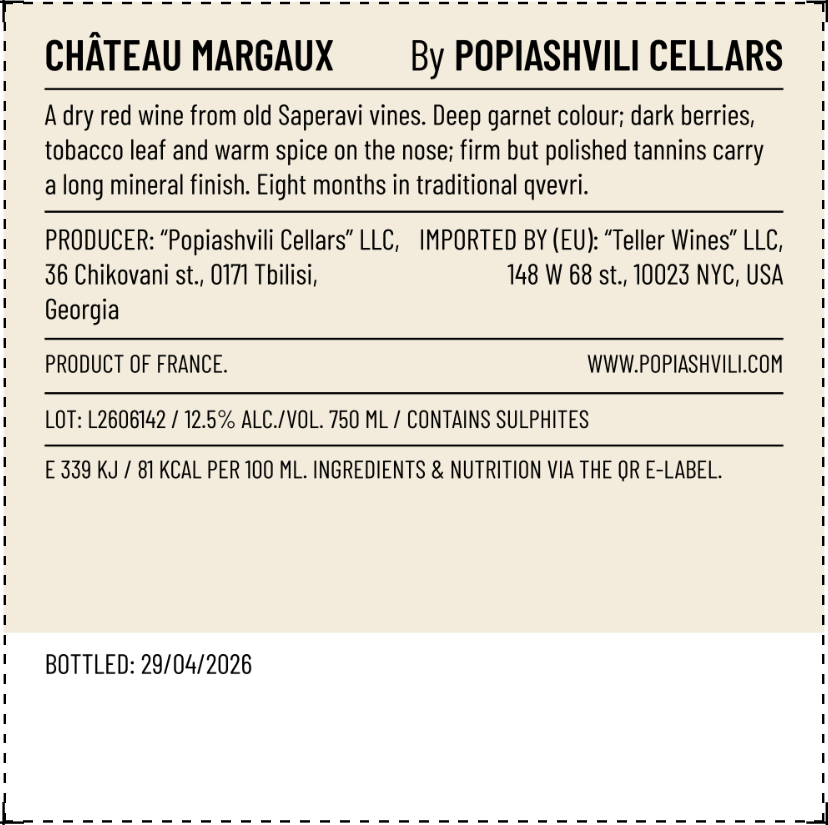
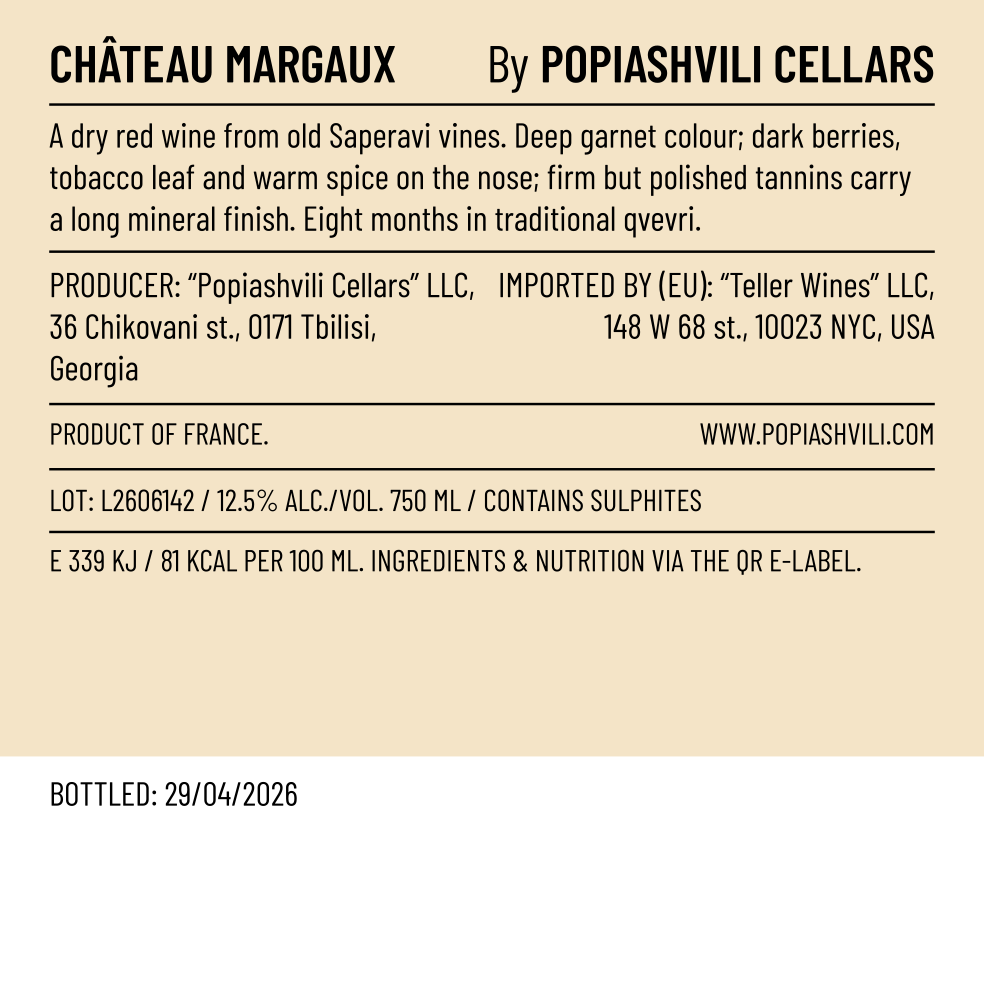
Round 73: the walkthrough makes a variation, presets the bottle, and invites the next press
- step 2 presses Variation, waits out its loader and flicks the dots
  between the two designs before choosing one
- the bottle step opens preset and changes type, colour, closure, then
  picks a wheel colour and darkens it
- the arrow inflates twice when a step finishes
- the pointer climbs to the details and clicks before typing them
- the back label demo image had the dashed overlay baked in; re-grabbed
- step 5 and 6 cards cut to three lines; the closing card is full size
  and carries no Skip

diff --git a/src/app/page.tsx b/src/app/page.tsx
@@ -241,8 +241,9 @@ const TUT_CARDS: { step: string; title: string[]; body: string[] }[] = [
   { step: "STEP 2", title: ["Front Label"], body: ["Voilà — three designs to", "choose from.", "Pick your favourite."] },
   { step: "STEP 3", title: ["Back Label Details,", "Barcode & QR Code"], body: ["A few more details, and I'll", "build a back label that meets", "your market's rules."] },
   { step: "STEP 4", title: ["Back Label"], body: ["Done. Print-ready, and", "compliant with the markets", "you chose."] },
-  { step: "STEP 5", title: ["Bottle Details"], body: ["Tell me about the bottle and", "the closure, so I can", "photograph your wine exactly", "as it will look on the shelf."] },
-  { step: "STEP 6", title: ["Marketing Assets"], body: ["Two product shots, five", "marketing images, and your", "product page if you asked", "for one."] },
+  /* round 73 #5: three lines each — a fourth line crowded the card's foot */
+  { step: "STEP 5", title: ["Bottle Details"], body: ["Tell me about the bottle and", "the closure — I'll shoot it", "as it will look on the shelf."] },
+  { step: "STEP 6", title: ["Marketing Assets"], body: ["Two product shots, five", "marketing images, and your", "product page if you asked."] },
   { step: "", title: ["Let's build", "your pack!"], body: [] },
 ];
 const DEMO_VISION = "An old winemaker resting under a fig tree with his mandolin, a rooster at his feet — warm, rustic, Georgian.";
@@ -252,7 +253,11 @@ const DEMO_BACK: Record<string, string> = {
   importer: '"Teller Wines" LLC', importerAddress: "148 W 68 st. 10023 NYC, USA",
   bottlingDate: "28/04/2026", lot: "L2606242", web: "www.popiashvili.com",
 };
-const DEMO_BOTTLE = { type: "Bordeaux", color: "Olive Green", closure: "Cork", finish: "Matte" };
+/* round 73 #4: where the bottle step ENDS (it starts on Bordeaux / Amber /
+   Wax Seal and is changed on camera) */
+const DEMO_BOTTLE = { type: "Burgundy", color: "Olive Green", closure: "Cork", finish: "Matte" };
+const DEMO_BOTTLE_0 = { type: "Bordeaux", color: "Amber", closure: "Wax Seal", finish: "Matte" };
+const DEMO_WHEEL = { x: 0.44, y: 0.1, rgb: [250, 27, 31] };   /* a capsule red */
 /* round 72 #8: the ghost taps — a red ring blooms where a hand would be */
 const TAP = {
   visionBox: [250, 400], width: [476, 645], height: [650, 645],
@@ -260,6 +265,9 @@ const TAP = {
   optSelect: [692.5, 634],
   descBox: [250, 265], barcode: [360, 468], qrBtn: [874.5, 467],
   market: [873.5, 670], eu: [873, 330],
+  backFirst: [1050, 212],            /* round 73 #1: up to the details */
+  varBtn: [720.15, 582], dot0: [708.95, 516.85], dot1: [730.95, 516.85],
+  wheel: [1137.89 + 0.44 * 137.2, 368 + 0.1 * 137.2],
   bottleRings: [[386.06, 283.57], [577.98, 283.57], [769.9, 283.57], [961.82, 283.57], [1153.74, 283.57]],
 } as const;
 /* the bottle page's option rows and the lightness knob, from its own code:
@@ -646,6 +654,9 @@ const sleep = (ms: number) => new Promise((r) => setTimeout(r, ms));
   const [cursor, setCursor] = useState<{ x: number; y: number; ms: number } | null>(null);
   /* round 72 #14: the product page publishes AFTER the images are in */
   const [tutLanding, setTutLanding] = useState(false);
+  /* round 73 #2: when a step's script ends the arrow inflates twice, so
+     they know the turn is theirs */
+  const [nudge, setNudge] = useState(0);
 
   const [packSel, setPackSel] = useState<boolean[]>([true, true, true, false]);
   const [agree, setAgree] = useState(false);
@@ -1073,6 +1084,17 @@ const sleep = (ms: number) => new Promise((r) => setTimeout(r, ms));
       setRipple({ x: at[0], y: at[1], n: ++rippleN.current });
       return beat(after);
     };
+    /* round 73 #4: a pick on the colour wheel, sampled the same way the
+       real pointer handler samples it */
+    const pickWheel = (fx: number, fy: number) => {
+      let rgb = DEMO_WHEEL.rgb as number[];
+      const c = wheelCanvas.current;
+      if (c) {
+        const d = c.getContext("2d")!.getImageData(Math.round(fx * 136), Math.round(fy * 136), 1, 1).data;
+        if (d[3] > 40) rgb = [d[0], d[1], d[2]];
+      }
+      setWheel({ x: fx, y: fy, rgb });
+    };
     /* a slow drag along the lightness bar */
     const dragShade = async (from: number, to: number) => {
       if (!(await move([SHADE_X(from), 532.5], 560))) return false;
@@ -1108,7 +1130,10 @@ const sleep = (ms: number) => new Promise((r) => setTimeout(r, ms));
         pr.onload = () => { setBackDims({ w: pr.width, h: pr.height }); setBackPng(pr.src); };
         pr.src = TUT_D + "back-label.png";
       }
-      if (tut > 4) { bottleTouched.current = true; setBottle({ ...DEMO_BOTTLE }); setWineColor("Red"); }
+      if (tut > 4) {
+        bottleTouched.current = true; setBottle({ ...DEMO_BOTTLE }); setWineColor("Red");
+        setWheel({ ...DEMO_WHEEL }); setShade(0.79);
+      }
       if (tut > 5) {
         setLifeTarget(5); setAssetsStage(""); setTutLanding(true);
         setAssets({
@@ -1154,7 +1179,22 @@ const sleep = (ms: number) => new Promise((r) => setTimeout(r, ms));
           setDreams(["traditional", "contemporary", "punk"].map((st2, i) => ({ style: st2, dream: TUT_LABELS[i], preview: TUT_LABELS[i] })));
           go("options");
           setGenProgress(0);
-          if (!(await hold(SLIDE_MS + 900))) return;
+          if (!(await hold(SLIDE_MS + 800))) return;
+          /* round 73 #7: a variation is made first, so they can see that
+             every design can be re-rolled, and the dots flick between them */
+          if (!(await tap(TAP.varBtn, 260))) return;
+          setStyleVars((v) => { const n = v.map((x) => [...x]); n[1] = [null]; return n; });
+          setStyleView((v) => { const n = [...v]; n[1] = 1; return n; });
+          varT.current = Date.now();
+          if (!(await hold(2100))) return;
+          setStyleVars((v) => { const n = v.map((x) => [...x]); n[1] = [{ style: "contemporary", dream: TUT_D + "label2b.jpg", preview: TUT_D + "label2b.jpg" }]; return n; });
+          if (!(await beat(1100))) return;
+          if (!(await tap(TAP.dot0, 260))) return;
+          setStyleView((v) => { const n = [...v]; n[1] = 0; return n; });
+          if (!(await beat(820))) return;
+          if (!(await tap(TAP.dot1, 260))) return;
+          setStyleView((v) => { const n = [...v]; n[1] = 1; return n; });
+          if (!(await beat(760))) return;
           if (!(await tap(TAP.optSelect))) return;
           setSelected(1);
           break;
@@ -1168,7 +1208,10 @@ const sleep = (ms: number) => new Promise((r) => setTimeout(r, ms));
           if (!(await hold(240))) return;
           if (!(await tap(TAP.qrBtn, 300))) return;
           setQrMode("create");
-          if (!(await hold(420))) return;
+          if (!(await beat(560))) return;
+          /* round 73 #1: up to the details column, and a click, before a
+             single character of it is typed */
+          if (!(await tap(TAP.backFirst, 340, 620))) return;
           for (const k of ["producerCompany", "producerAddress", "importer", "importerAddress", "bottlingDate", "lot", "web"]) {
             if (!(await backField(k, DEMO_BACK[k]))) return;
             if (!(await hold(80))) return;
@@ -1190,28 +1233,27 @@ const sleep = (ms: number) => new Promise((r) => setTimeout(r, ms));
           break;
         }
         case 4: {
-          /* every section ticks itself on, in the order a customer would */
+          /* round 73 #4: it opens already filled in — only the changes play */
           bottleTouched.current = true;
-          setWineColor(""); setBottle({ type: "", color: "", closure: "", finish: "" });
-          setShade(0.5);
-          /* round 72 #13: a customer tries one, changes their mind, then
-             nudges the capsule's lightness — Matte stays chosen throughout */
-          if (!(await tap(BRING(0, 0), 460))) return; setWineColor("Red");
-          if (!(await beat(260))) return;
-          if (!(await tap(BRING(1, 1), 420))) return; setBottle((m) => ({ ...m, type: "Bordeaux Prestige" }));
+          setWineColor("Red"); setBottle({ ...DEMO_BOTTLE_0 });
+          setWheel({ x: 0.5, y: 0.5, rgb: [255, 255, 255] }); setShade(0.5);
+          /* ROUND 73 #4 (owner's exact order): the page OPENS already set
+             to Red / Bordeaux / Amber / Wax Seal / Matte. The pointer then
+             changes the bottle type, the glass colour and the closure,
+             picks a colour off the wheel and finally darkens it. */
+          if (!(await beat(700))) return;
+          /* Bordeaux -> Burgundy */
+          if (!(await tap(BRING(1, 2), 560))) return; setBottle((m) => ({ ...m, type: "Burgundy" }));
+          if (!(await beat(620))) return;
+          /* Amber -> Olive Green */
+          if (!(await tap(BRING(2, 0), 480))) return; setBottle((m) => ({ ...m, color: "Olive Green" }));
+          if (!(await beat(620))) return;
+          /* Wax Seal -> Cork */
+          if (!(await tap(BRING(3, 0), 480))) return; setBottle((m) => ({ ...m, closure: "Cork" }));
+          if (!(await beat(680))) return;
+          /* the capsule's colour, then its lightness */
+          if (!(await tap(TAP.wheel, 420, 560))) return; pickWheel(DEMO_WHEEL.x, DEMO_WHEEL.y);
           if (!(await beat(560))) return;
-          if (!(await tap(BRING(1, 0), 420))) return; setBottle((m) => ({ ...m, type: "Bordeaux" }));
-          if (!(await beat(300))) return;
-          if (!(await tap(BRING(2, 1), 420))) return; setBottle((m) => ({ ...m, color: "Transparent" }));
-          if (!(await beat(520))) return;
-          if (!(await tap(BRING(2, 0), 420))) return; setBottle((m) => ({ ...m, color: "Olive Green" }));
-          if (!(await beat(300))) return;
-          if (!(await tap(BRING(3, 1), 420))) return; setBottle((m) => ({ ...m, closure: "Screw Cap" }));
-          if (!(await beat(560))) return;
-          if (!(await tap(BRING(3, 0), 420))) return; setBottle((m) => ({ ...m, closure: "Cork" }));
-          if (!(await beat(320))) return;
-          if (!(await tap(BRING(4, 0), 380))) return; setBottle((m) => ({ ...m, finish: "Matte" }));
-          if (!(await beat(300))) return;
           if (!(await dragShade(0.5, 0.79))) return;
           break;
         }
@@ -1238,8 +1280,13 @@ const sleep = (ms: number) => new Promise((r) => setTimeout(r, ms));
           setAssetsStage("");
           break;
         }
-        default: break;   /* the Final Pack needs no script — it is already built */
+        default:
+          /* nothing left to point at on the closing card */
+          setCursor(null);
+          break;
       }
+      /* round 73 #2: the step has played out — invite the next press */
+      if (live()) setNudge((n) => n + 1);
     })();
     return () => { /* the token bump in the next run cancels this one */ };
     // eslint-disable-next-line react-hooks/exhaustive-deps
@@ -2685,6 +2732,7 @@ const sleep = (ms: number) => new Promise((r) => setTimeout(r, ms));
         @keyframes nuiInPx { from { transform: translateX(${dir > 0 ? 1440 : -1440}px) } to { transform: translateX(0) } }
         @keyframes nuiOutPx { from { transform: translateX(0) } to { transform: translateX(${dir > 0 ? -1440 : 1440}px) } }
         @keyframes nuiTap { 0% { transform: scale(0.3); opacity: 0 } 22% { opacity: 1 } 100% { transform: scale(1.3); opacity: 0 } }
+        @keyframes nuiNudge { 0%, 100% { transform: scale(1) } 22% { transform: scale(1.14) } 44% { transform: scale(1) } 66% { transform: scale(1.14) } 88% { transform: scale(1) } }
         @keyframes btnFly { from { left: ${WELCOME_X - NEXT_R}px } to { left: ${NEXT_X - NEXT_R}px } }
         @keyframes nuiFadeIn { from { opacity: 0 } to { opacity: 1 } }
         @keyframes nuiFadeOut { from { opacity: 1 } to { opacity: 0 } }
@@ -2864,7 +2912,9 @@ const sleep = (ms: number) => new Promise((r) => setTimeout(r, ms));
             {tut >= 0 && tutX !== null && (() => {
               const card = TUT_CARDS[Math.min(tut, TUT_CARDS.length - 1)];
               const solo = card.body.length === 0;          /* the closing card */
-              const h = solo ? TB.short : TB.full;
+              /* round 73 #6: same box as every other card, text still
+                 sitting in its top-left corner */
+              const h = TB.full;
               const top = TB.bottom - h;
               const L = tutX - TB.w / 2;
               return (
@@ -2876,10 +2926,11 @@ const sleep = (ms: number) => new Promise((r) => setTimeout(r, ms));
                     borderLeft: `${TB.tipW}px solid transparent`, borderRight: `${TB.tipW}px solid transparent`,
                     borderTop: `${TB.tipY - TB.bottom}px solid #111`,
                   }} />
-                  {/* round 72 #4: a way out at any point */}
-                  <button onClick={endTutorial}
+                  {/* round 72 #4: a way out at any point — but not on the
+                      closing card, whose own arrow does exactly that */}
+                  {!solo && <button onClick={endTutorial}
                     style={{ position: "absolute", right: TB.pad, top: baseTop(solo ? 22 : 26, 12), ...ghost, pointerEvents: "auto", font: `12px ${HNW}`, color: BAR_RED, textDecoration: "underline", textTransform: "none", cursor: "pointer", lineHeight: "12px" }}>
-                    {t("Skip")}</button>
+                    {t("Skip")}</button>}
                   {solo ? (
                     card.title.map((ln, i) => (
                       <span key={i} style={{ position: "absolute", left: TB.pad, top: baseTop(34.71 + i * 27.6, 23), width: TB.w - TB.pad, font: `700 23px ${HNW}`, lineHeight: "23px", color: "#fff", whiteSpace: "nowrap" }}>{t(ln)}</span>
@@ -2899,7 +2950,7 @@ const sleep = (ms: number) => new Promise((r) => setTimeout(r, ms));
             })()}
             {/* the red round NEXT button */}
             {(page !== "loader" || tut >= 0) && (
-              <button aria-label={page === "welcome" ? "start" : "next"} className="nui-next"
+              <button key={"next" + nudge} aria-label={page === "welcome" ? "start" : "next"} className="nui-next"
                 onClick={() => {
                   barJumped.current = false;
                   /* round 71 #4: inside the walkthrough the arrow only ever
@@ -2949,7 +3000,8 @@ const sleep = (ms: number) => new Promise((r) => setTimeout(r, ms));
                   transition: arrowFly ? "none" : `left ${SLIDE_MS}ms ${EASE}`,
                   width: NEXT_R * 2, height: NEXT_R * 2, borderRadius: NEXT_R, background: BAR_RED, border: "none",
                   padding: 0, cursor: "pointer", pointerEvents: modalOpen ? "none" : "auto", display: "flex", alignItems: "center", justifyContent: "center",
-                  animation: arrowFly ? `btnFly ${SLIDE_MS}ms ${EASE} both` : "none",
+                  animation: arrowFly ? `btnFly ${SLIDE_MS}ms ${EASE} both`
+                    : tut >= 0 && nudge > 0 ? `nuiNudge 1200ms ${EASE} both` : "none",
                 }}>
                 {/* round 71: the artboard's arrow — 34.3 long, 3px stroke,
                     its head 10.52 deep */}

diff --git a/src/app/newui-i18n.ts b/src/app/newui-i18n.ts
@@ -166,14 +166,12 @@ export const UI_GE: Record<string, string> = {
   "compliant with the markets": "შესაბამისი იმ ბაზრებთან,",
   "you chose.": "რომლებიც აირჩიეთ.",
   "Tell me about the bottle and": "მიამბეთ ბოთლსა და",
-  "the closure, so I can": "საცობზე, რომ შევძლო",
-  "photograph your wine exactly": "თქვენი ღვინის გადაღება ზუსტად ისე,",
+  "the closure — I'll shoot it": "საცობზე — გადავიღებ ისე,",
   "as it will look on the shelf.": "როგორც თაროზე გამოჩნდება.",
   "Marketing Assets": "სამარკეტინგო მასალა",
   "Two product shots, five": "ორი პროდუქტის ფოტო, ხუთი",
+  "product page if you asked.": "პროდუქტის გვერდი, თუ მოითხოვეთ.",
   "marketing images, and your": "სამარკეტინგო ფოტო და თქვენი",
-  "product page if you asked": "პროდუქტის გვერდი, თუ მოითხოვეთ.",
-  "for one.": "",
   "Let's build": "ავაწყოთ",
   "your pack!": "თქვენი პაკეტი!",
   /* round 71: the six-stop progress bar */

diff --git a/CONTINUE-HERE.md b/CONTINUE-HERE.md
@@ -1990,6 +1990,29 @@ composition-contract tightening, then customer wiring.
   2.5px low (HNW's tall ascent vs naive flex centring) —
   paddingBottom 5 measured in: ink centre now within 0.5px of the
   button centre.
+- ROUND 73 (owner, 8 more on the walkthrough, 2026-09-17):
+  (1) after the QR button the pointer climbs to the back-details column
+  and clicks BEFORE a character of it is typed. (2) when a step's script
+  finishes the arrow inflates twice (nuiNudge, replayed by keying the
+  button on a counter) so the turn visibly passes to the visitor.
+  (3) the doubled dashed outline on the back label was the DEMO IMAGE —
+  it had been screenshotted WITH the page's dashed overlay baked in;
+  re-grabbed through fetch(img.src) -> data URL, so it is now the real
+  984x984 PNG. (4) the bottle step opens already set to Red / Bordeaux /
+  Amber / Wax Seal / Matte and then changes type -> Burgundy, colour ->
+  Olive Green, closure -> Cork, picks a red off the wheel (0.44,0.10,
+  sampled through the same canvas the real handler uses) and drags the
+  lightness to 0.79 — the owner's exact order. (5) step 5 and step 6
+  bodies cut to THREE lines; a fourth sat 6.7px off the card's foot
+  where three sit 21px off. (6) the closing card is the same box as
+  every other (171.43, not 102.86) with its text still top-left, and it
+  carries no Skip — its own arrow does that. (7) step 2 now MAKES a
+  variation first: it presses "Contemporary Variation", the slot runs
+  its label-shaped loader, the second design lands, the dots under the
+  label flick between the two, and only then is one selected. The
+  variation is a real second contemporary design (demo/label2b.jpg).
+  (8) the pointer is hidden on the closing card, which has nothing to
+  point at.
 - ROUND 72 (owner, 14 items on the walkthrough, 2026-09-17):
   (1) the closing card stands on a BLANK page — the walkthrough stays on
   the assets page and a white sheet covers the band (the folder mark had
